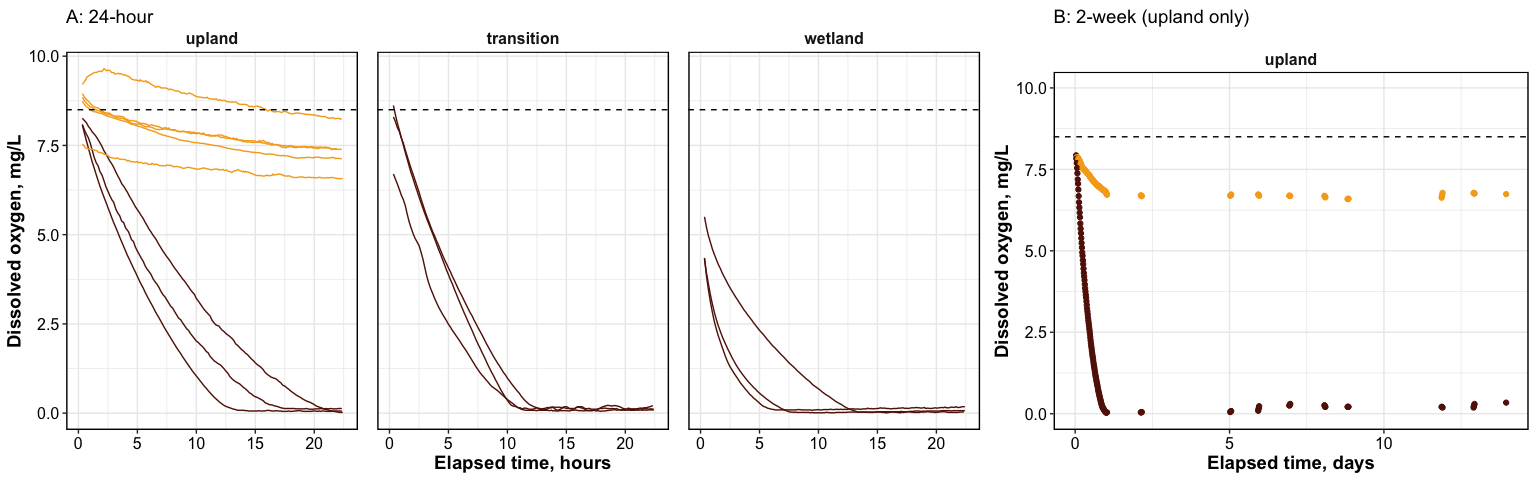
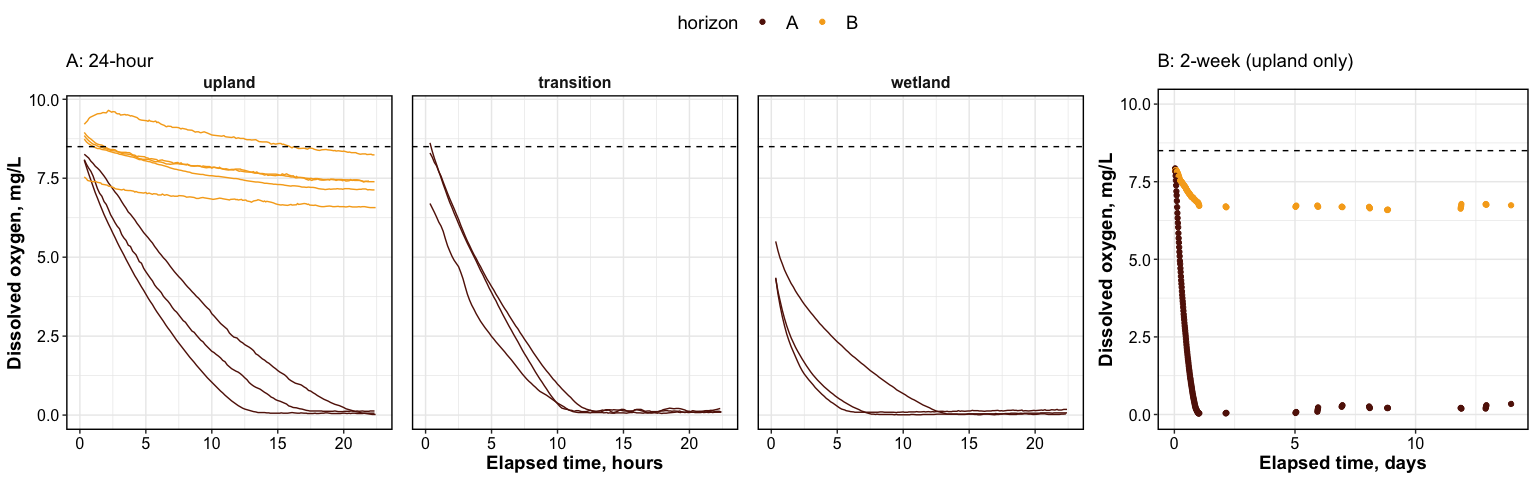
combine legends for optodes

diff --git a/3-reports/anoxia_report.md b/3-reports/anoxia_report.md
@@ -16,7 +16,7 @@ centrifuged and filtered, and analyzed for dissolved nutrients
 ![](anoxia_report_files/figure-gfm/optode_group_subset-1.png)<!-- -->
 
     ## 
-    ## $version2
+    ## $version2_legend
 
 ![](anoxia_report_files/figure-gfm/optode_group_subset-2.png)<!-- -->
 
@@ -73,7 +73,7 @@ Version 2
 Session Info
 </summary>
 
-Date run: 2023-07-27
+Date run: 2024-02-26
 
     ## R version 4.2.1 (2022-06-23)
     ## Platform: x86_64-apple-darwin17.0 (64-bit)
@@ -93,24 +93,22 @@ Date run: 2023-07-27
     ##  [1] googlesheets4_1.0.1 lubridate_1.9.2     forcats_1.0.0      
     ##  [4] stringr_1.5.0       dplyr_1.1.0         purrr_1.0.1        
     ##  [7] readr_2.1.4         tidyr_1.3.0         tibble_3.1.8       
-    ## [10] ggplot2_3.4.0       tidyverse_2.0.0     tarchetypes_0.7.2  
+    ## [10] ggplot2_3.4.3       tidyverse_2.0.0     tarchetypes_0.7.2  
     ## [13] targets_0.14.0     
     ## 
     ## loaded via a namespace (and not attached):
-    ##  [1] ps_1.7.1           digest_0.6.29      utf8_1.2.2         R6_2.5.1          
-    ##  [5] cellranger_1.1.0   backports_1.4.1    evaluate_0.16      httr_1.4.4        
-    ##  [9] highr_0.9          pillar_1.8.1       soilpalettes_0.1.0 rlang_1.0.6       
-    ## [13] curl_4.3.2         rstudioapi_0.14    data.table_1.14.4  callr_3.7.2       
-    ## [17] rmarkdown_2.21     labeling_0.4.2     googledrive_2.0.0  igraph_1.3.4      
-    ## [21] munsell_0.5.0      compiler_4.2.1     xfun_0.37          pkgconfig_2.0.3   
-    ## [25] askpass_1.1        htmltools_0.5.3    openssl_2.0.2      tidyselect_1.2.0  
-    ## [29] codetools_0.2-18   fansi_1.0.3        tzdb_0.3.0         withr_2.5.0       
-    ## [33] rappdirs_0.3.3     grid_4.2.1         jsonlite_1.8.4     gtable_0.3.0      
-    ## [37] lifecycle_1.0.3    magrittr_2.0.3     scales_1.2.1       cli_3.6.0         
-    ## [41] stringi_1.7.8      farver_2.1.1       fs_1.5.2           ellipsis_0.3.2    
-    ## [45] generics_0.1.3     vctrs_0.5.2        cowplot_1.1.1      tools_4.2.1       
-    ## [49] glue_1.6.2         hms_1.1.2          processx_3.7.0     fastmap_1.1.0     
-    ## [53] yaml_2.3.5         timechange_0.2.0   colorspace_2.0-3   gargle_1.2.0      
-    ## [57] base64url_1.4      knitr_1.42
+    ##  [1] tidyselect_1.2.0   xfun_0.42          gargle_1.2.0       colorspace_2.0-3  
+    ##  [5] vctrs_0.5.2        generics_0.1.3     htmltools_0.5.3    yaml_2.3.5        
+    ##  [9] utf8_1.2.2         rlang_1.1.1        pillar_1.8.1       glue_1.6.2        
+    ## [13] withr_2.5.0        lifecycle_1.0.3    munsell_0.5.0      gtable_0.3.0      
+    ## [17] cellranger_1.1.0   codetools_0.2-18   evaluate_0.16      labeling_0.4.2    
+    ## [21] knitr_1.42         fastmap_1.1.0      callr_3.7.2        tzdb_0.3.0        
+    ## [25] ps_1.7.1           fansi_1.0.3        highr_0.9          scales_1.2.1      
+    ## [29] backports_1.4.1    farver_2.1.1       fs_1.5.2           hms_1.1.2         
+    ## [33] digest_0.6.29      stringi_1.7.8      processx_3.7.0     cowplot_1.1.1     
+    ## [37] grid_4.2.1         cli_3.6.0          tools_4.2.1        magrittr_2.0.3    
+    ## [41] base64url_1.4      pkgconfig_2.0.3    ellipsis_0.3.2     data.table_1.14.4 
+    ## [45] timechange_0.2.0   googledrive_2.0.0  rmarkdown_2.21     rstudioapi_0.14   
+    ## [49] R6_2.5.1           soilpalettes_0.1.0 igraph_1.3.4       compiler_4.2.1
 
 </details>
